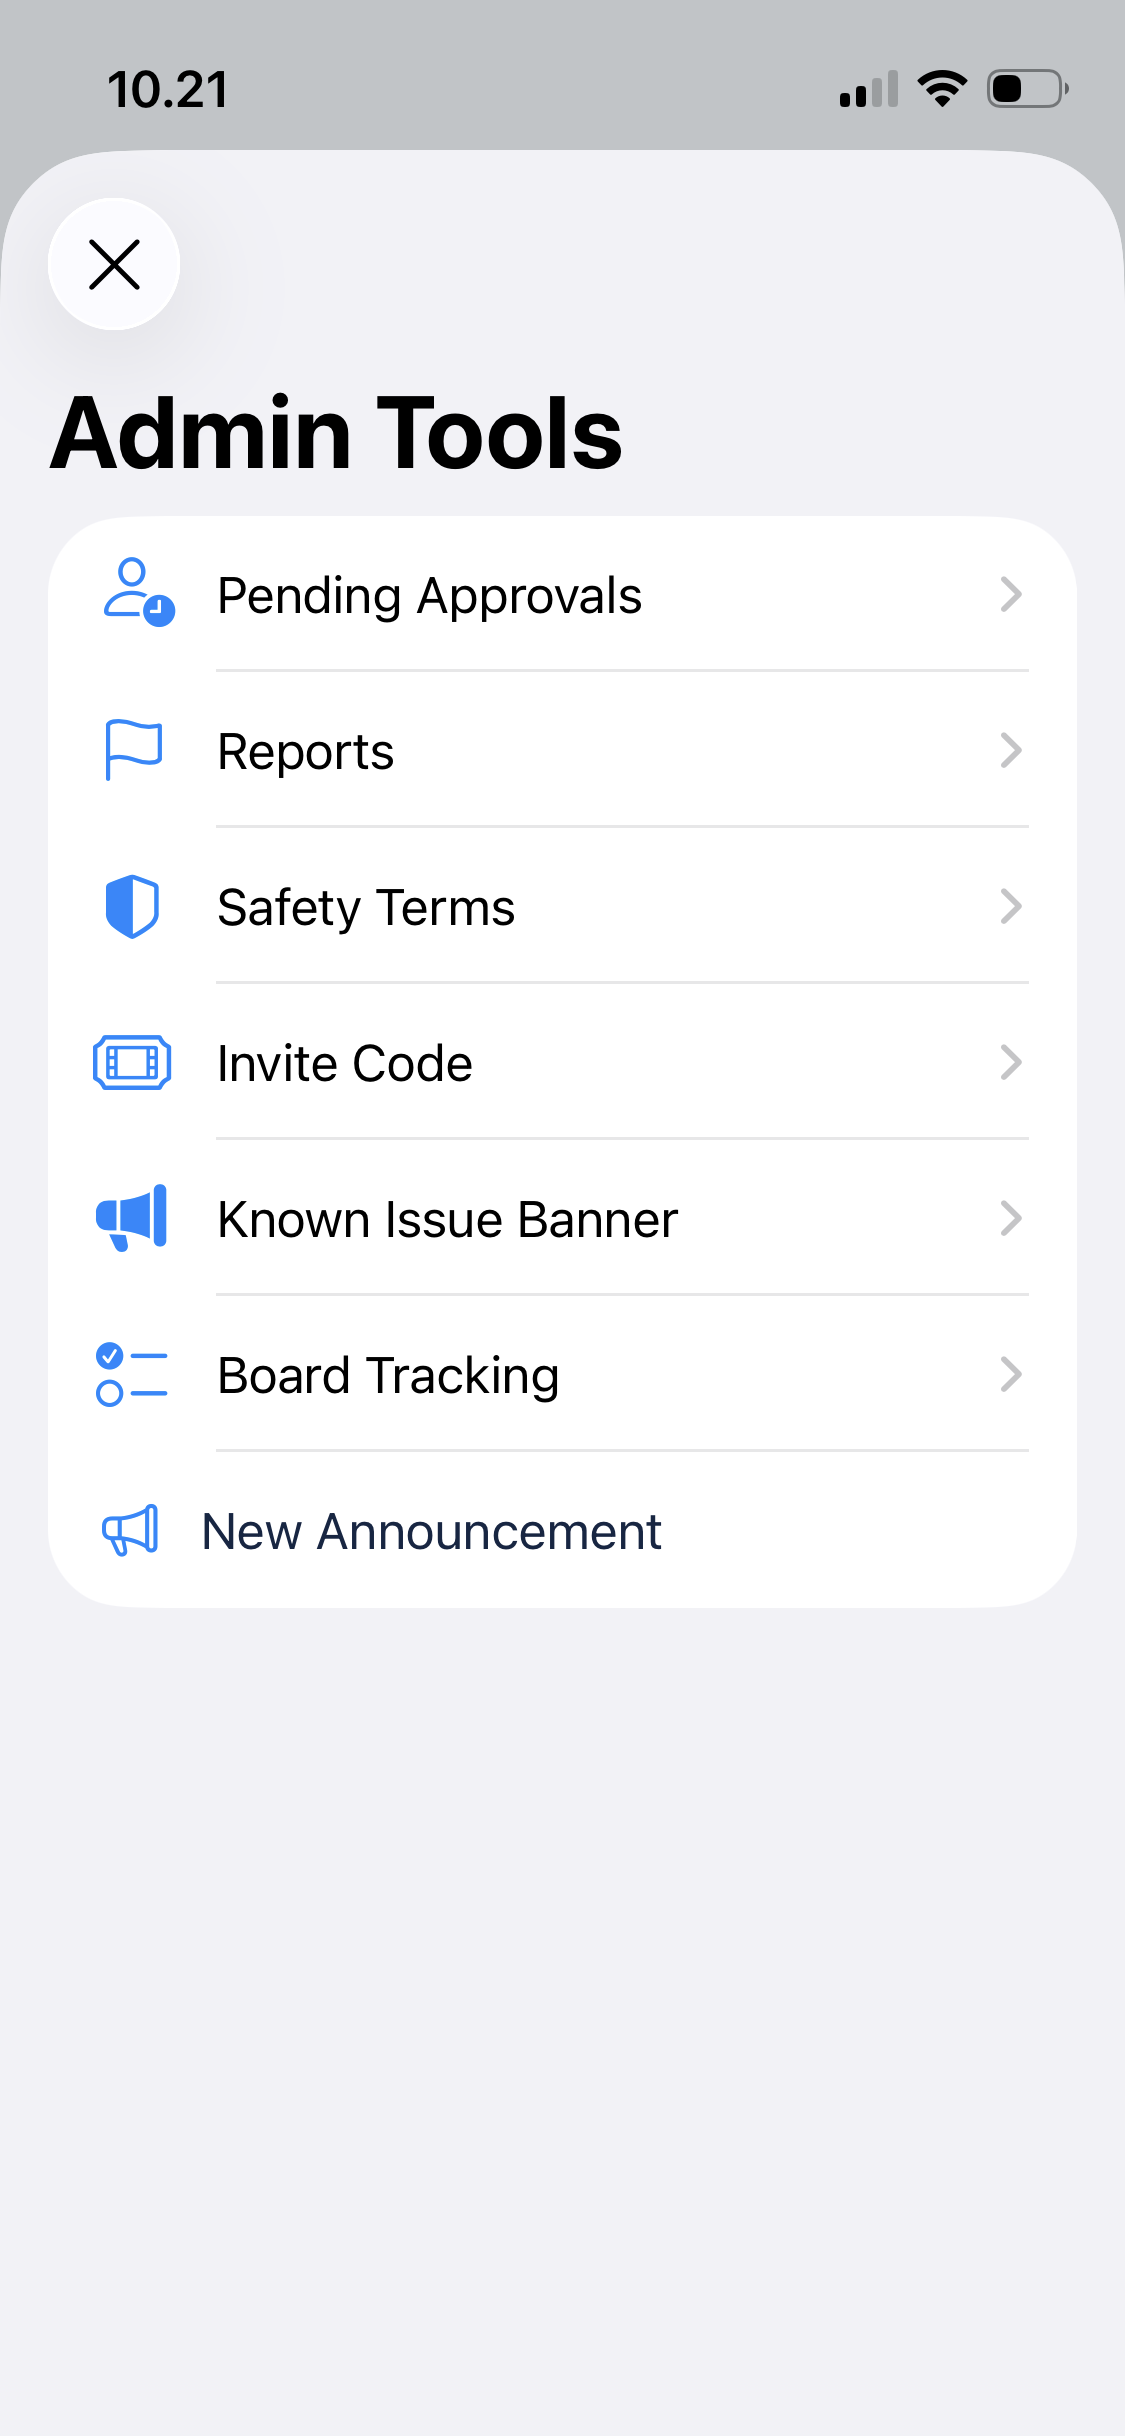
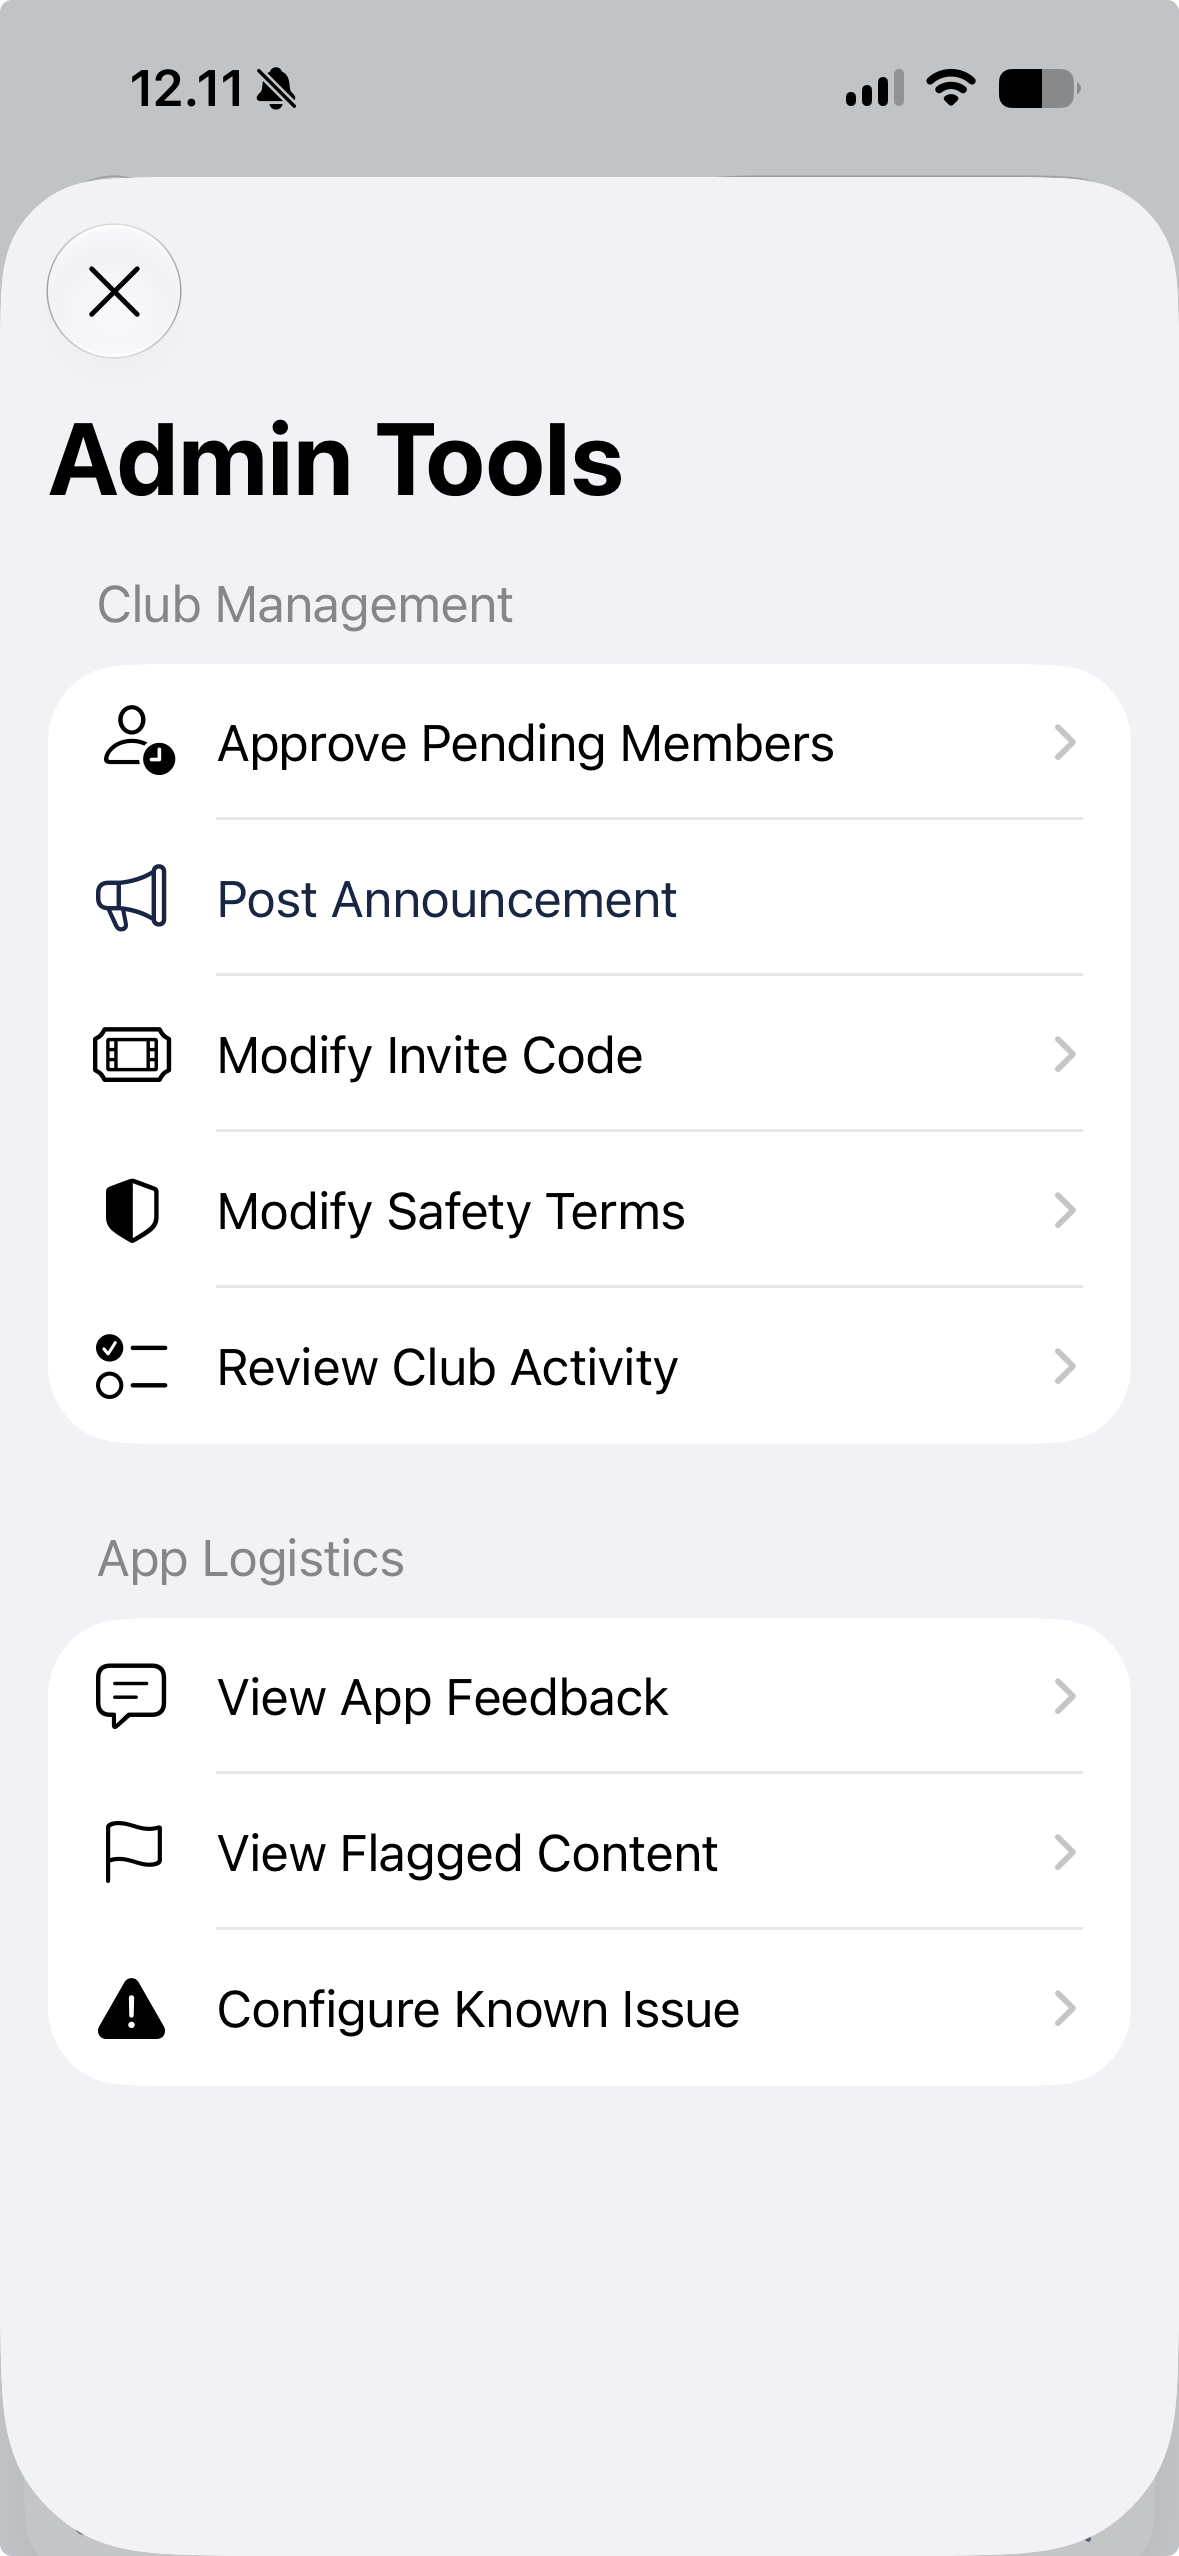
Update admin guide for the regrouped admin panel
New screenshot and labels for the Club Management / App Logistics
split shipping in 1.9.17.

Adds a View App Feedback card — the panel has always had that row and
the guide never documented it.

Corrects the placement of two items. Approve Pending Members is in the
panel (and also reachable by tapping the sign-up notification), so it
moves out of 'From anywhere in the app'. Remove or lapse members goes
the other way: ban, lapse and reinstate live on a member's profile and
are NOT in the admin panel at all, so the card now says where to
actually find them rather than sending board members hunting.

diff --git a/admin-guide.html b/admin-guide.html
@@ -126,53 +126,64 @@
             <p>Long-press any comment, swim, or event to delete it. Useful if something's offensive or inappropriate.</p>
         </div>
         <div class="card">
-            <h3>Approve new members</h3>
-            <p>You'll get a notification when someone signs up or is approved. There may already be a few pending right now that need one of us to approve.</p>
-        </div>
-        <div class="card">
             <h3>Remove or lapse members</h3>
-            <p>Mark individuals as banned, lapsed, or delete them outright. Most of this lives on individual profiles or the "club view" at the bottom of the Club page.</p>
+            <p>Open the member's profile — tap their name anywhere in the app — and you'll find Ban, Mark as Lapsed and Reinstate at the bottom. There's also a delete option in the club view at the bottom of the Club page.</p>
+            <p><span class="heads-up">Heads up</span> &nbsp;These live on profiles, not in the admin panel.</p>
         </div>
     </div>
 
     <hr class="divider">
 
     <span class="section-label">Admin control panel</span>
-    <p class="intro">You may have noticed a shield icon next to the notification bell in the upper right — that's how you get in.</p>
+    <p class="intro">You may have noticed a shield icon next to the notification bell in the upper right — that's how you get in. It's split into two groups: running the club, and running the app.</p>
 
     <div class="screenshot-wrap">
-        <img src="admin-tools-screenshot.png" class="screenshot" alt="The Admin Tools panel inside the NIS Tracker app, listing Pending Approvals, Reports, Safety Terms, Invite Code, Known Issue Banner, Board Tracking, and New Announcement.">
+        <img src="admin-tools-screenshot.png" class="screenshot" alt="The Admin Tools panel inside the NIS Tracker app. A Club Management group lists Approve Pending Members, Post Announcement, Modify Invite Code, Modify Safety Terms and Review Club Activity. An App Logistics group lists View App Feedback, View Flagged Content and Configure Known Issue.">
     </div>
+
+    <span class="section-label">Club Management</span>
 
     <div class="card-grid">
         <div class="card">
-            <h3>Pending Approvals</h3>
-            <p>Sign-ups waiting for review. The app is in the public App Store, so we need to be careful to only approve people we actually know are in or joining the club.</p>
+            <h3>Approve Pending Members</h3>
+            <p>Sign-ups waiting for review, with a count next to the row when any are waiting. The app is in the public App Store, so we need to be careful to only approve people we actually know are in or joining the club.</p>
+            <p><span class="heads-up">Shortcut</span> &nbsp;You'll also get a notification when someone signs up — tapping it takes you straight here.</p>
         </div>
         <div class="card">
-            <h3>Reports</h3>
-            <p>If a user reports content as inappropriate, it shows up here. Apple made me add this; hopefully we never use it.</p>
+            <h3>Post Announcement</h3>
+            <p>Push an announcement to the whole club. Sends a push notification and pins it at the top of the inbox. Could replace email blasts.</p>
         </div>
         <div class="card">
-            <h3>Safety Terms</h3>
+            <h3>Modify Invite Code</h3>
+            <p>Bypasses the pending step at sign-up. Pass it to new members during onboarding. Admins can rotate it if it leaks.</p>
+        </div>
+        <div class="card">
+            <h3>Modify Safety Terms</h3>
             <p>What users agree to at sign-up — release of liability and so on. I copied it from the document I signed when I joined; edit as you see fit.</p>
             <p><span class="heads-up">Heads up</span> &nbsp;Every edit forces the whole club to re-consent.</p>
         </div>
         <div class="card">
-            <h3>Invite Code</h3>
-            <p>Bypasses the pending step at sign-up. Pass it to new members during onboarding. Admins can rotate it if it leaks.</p>
+            <h3>Review Club Activity</h3>
+            <p>Tracks requirements and nice-to-haves — swims with the club, swims under 5&deg;, events created. Won't be useful out of season, but handy in October/November to see who met the bar. Have a look and let me know if anything's unclear.</p>
+        </div>
+    </div>
+
+    <hr class="divider">
+
+    <span class="section-label">App Logistics</span>
+
+    <div class="card-grid">
+        <div class="card">
+            <h3>View App Feedback</h3>
+            <p>Bug reports and suggestions members send from inside the app, with a count next to the row when any are unread. Mark each one actioned or declined once you've had a look.</p>
         </div>
         <div class="card">
-            <h3>Known Issue Banner</h3>
+            <h3>View Flagged Content</h3>
+            <p>If a user reports content as inappropriate, it shows up here, with a count next to the row. Apple made me add this; hopefully we never use it.</p>
+        </div>
+        <div class="card">
+            <h3>Configure Known Issue</h3>
             <p>Mostly for me. Puts an alert at the top of a few pages when there's a bug affecting the app.</p>
-        </div>
-        <div class="card">
-            <h3>Board Tracking</h3>
-            <p>Tracks requirements and nice-to-haves — swims with the club, swims under 5°, events created. Won't be useful out of season, but handy in October/November to see who met the bar. Have a look and let me know if anything's unclear.</p>
-        </div>
-        <div class="card">
-            <h3>New Announcement</h3>
-            <p>Push an announcement to the whole club. Sends a push notification and pins it at the top of the inbox. Could replace email blasts.</p>
         </div>
     </div>
 
